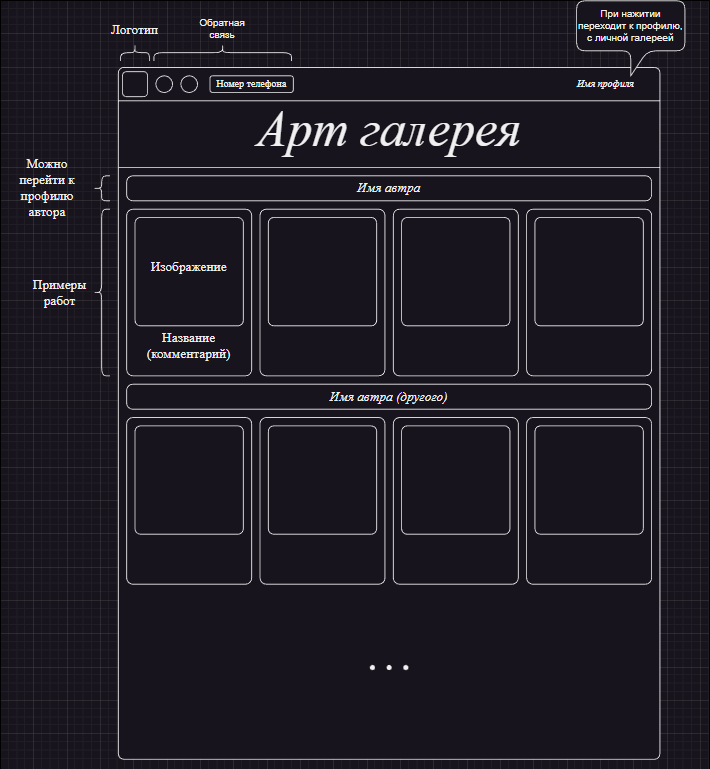
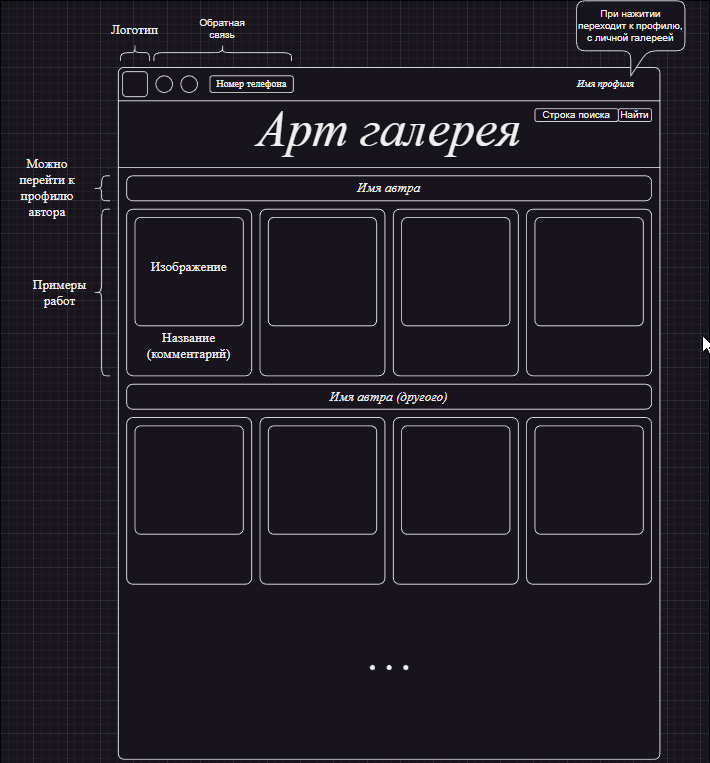
add examples

diff --git a/index.html b/index.html
@@ -10,27 +10,53 @@
 <body>
 
     <footer class="l-footer">
-        <div class="l-left">
-            <img class="m-logo" src=images/logo/logo.png" alt="Логотип">
+        <nav class="l-left">
+            <img src="images/logo/logo.png" alt="Изображение 1">
             <ul class="m-contacts">
                 <li class="m-contact"><a class="s-telegram" href="https://t.me/Magistones">Telegram</a></li>
                 <li class="m-contact"><a class="s-vk" href="https://vk.com/obidjanow">VK</a></li>
-                <li class="m-contact"><span class="phone-number">+7(911)-952-60-00</span>
+                <li class="m-contact"><span class="s-phone-number">+7(911)-952-60-00</span>
             </ul>
-        </div>
+        </nav>
         <div class="l-right">
-            <span class="login"><a href="#">Логин</a></span>
+            <a href="#"><span class="Name">Name</span></a>
         </div>
     </footer>
 
     <header class="l-header">
         <span class="page-name">Арт галерея</span>
+        <form>
+            <input class="s-find-search" type="search">
+            <input class="s-find-bottom" type="submit" value="Найти">
+        </form>
     </header>
 
     <main class="l-main">
         <div class="l-autors-and-examples">
-            <h2 class="l-author-name">avogado6</h2>
-            <div></div>
+            <h2 class="m-author-name">avogado6</h2>
+            <div class="l-examples">
+                <article class="m-example">
+                    <a href="images/examples/avogado6/example1.jpg"><img src="images/examples/avogado6/example1.jpg" alt="Изображение 1"></a>
+                    <p>
+                        Бессердечный <br>
+                        非情 / hijō
+                    </p>
+                </article>
+                <article class="m-example">
+                    <a href="images/examples/avogado6/example2.jpg"><img src="images/examples/avogado6/example2.jpg" alt="Изображение 2"></a>
+                    <p>
+                        Сумерки <br>
+                        黄昏 / tasogare
+                    </p>
+                </article>
+                <article class="m-example">
+                    <a href="images/examples/avogado6/example3.jpg"><img src="images/examples/avogado6/example3.jpg" alt="Изображение 3"></a>
+                    <p>
+                        Замороженный <br>
+                        凍結 / tōketsu
+                    </p>
+                </article>
+            </div>
         </div>
     </main>
 </body>
